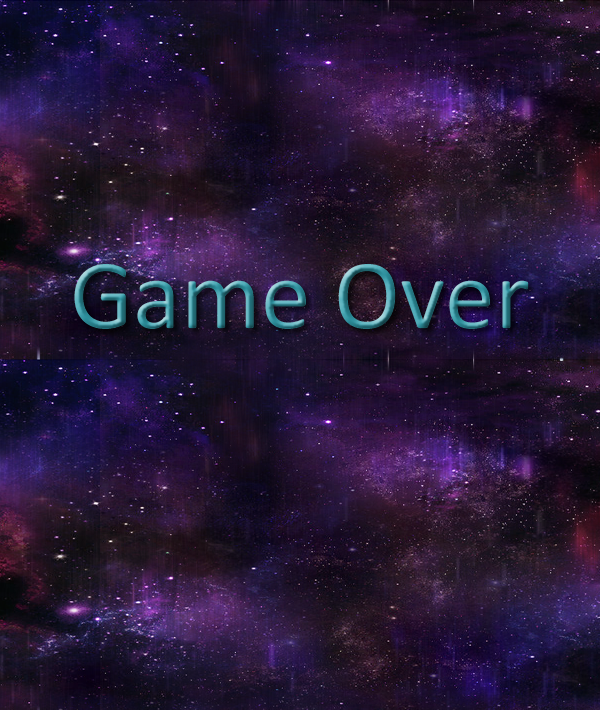
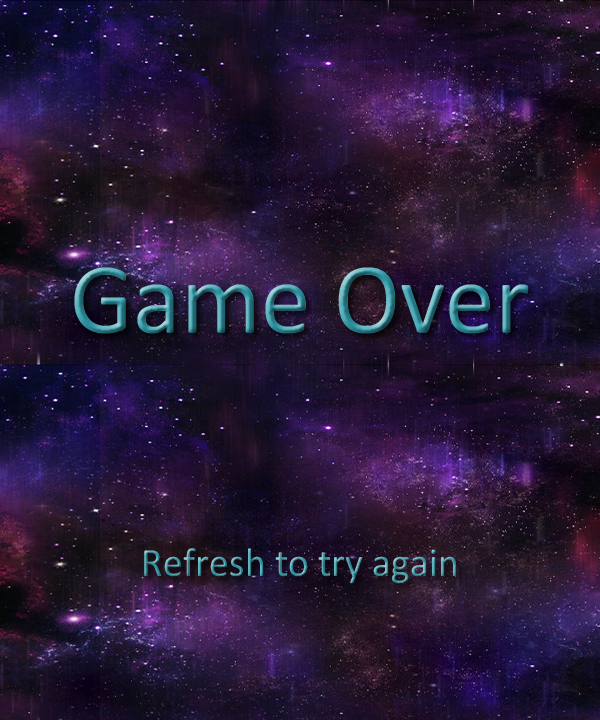
updated gameOver.png, start.png, added start and game over scenes

diff --git a/js/main.js b/js/main.js
@@ -902,6 +902,17 @@ var StartScene = Class.create(Scene, {
 	}
 });
 
+var GameOverScene = Class.create(Scene, {
+	initialize: function() {
+		Scene.apply(this);
+		
+		var sprite = new Sprite(600, 720);
+		sprite.image = game.assets['images/gameOver.png'];
+		this.addChild(sprite);
+		game.pushScene(this);
+	}
+});
+
 var gameWidth = 600;
 var gameHeight = 720;
 
@@ -954,7 +965,7 @@ window.onload = function() {
 		'images/gui_barFrame_FlashRed.png', 'images/gui_barFrame_FlashGreen.png',
 		'sounds/generator.mp3', 'sounds/shield.mp3', 'sounds/missiles.mp3',
 		'sounds/offline.mp3', 'sounds/online.mp3', 'sounds/lazers.mp3',
-		'sounds/HELLISTHEBULLET.wav', 'images/start.png');
+		'sounds/HELLISTHEBULLET.wav', 'images/start.png', 'images/gameOver.png');
 	
 	game.fps = 60;
 	game.scale = 1;
@@ -1063,6 +1074,7 @@ window.onload = function() {
 				gameOver = false;
 			}
 			if (gameOver) {
+				var gameOverScreen = new GameOverScene();
 				bgm.stop()
 				game.stop();
 			}
